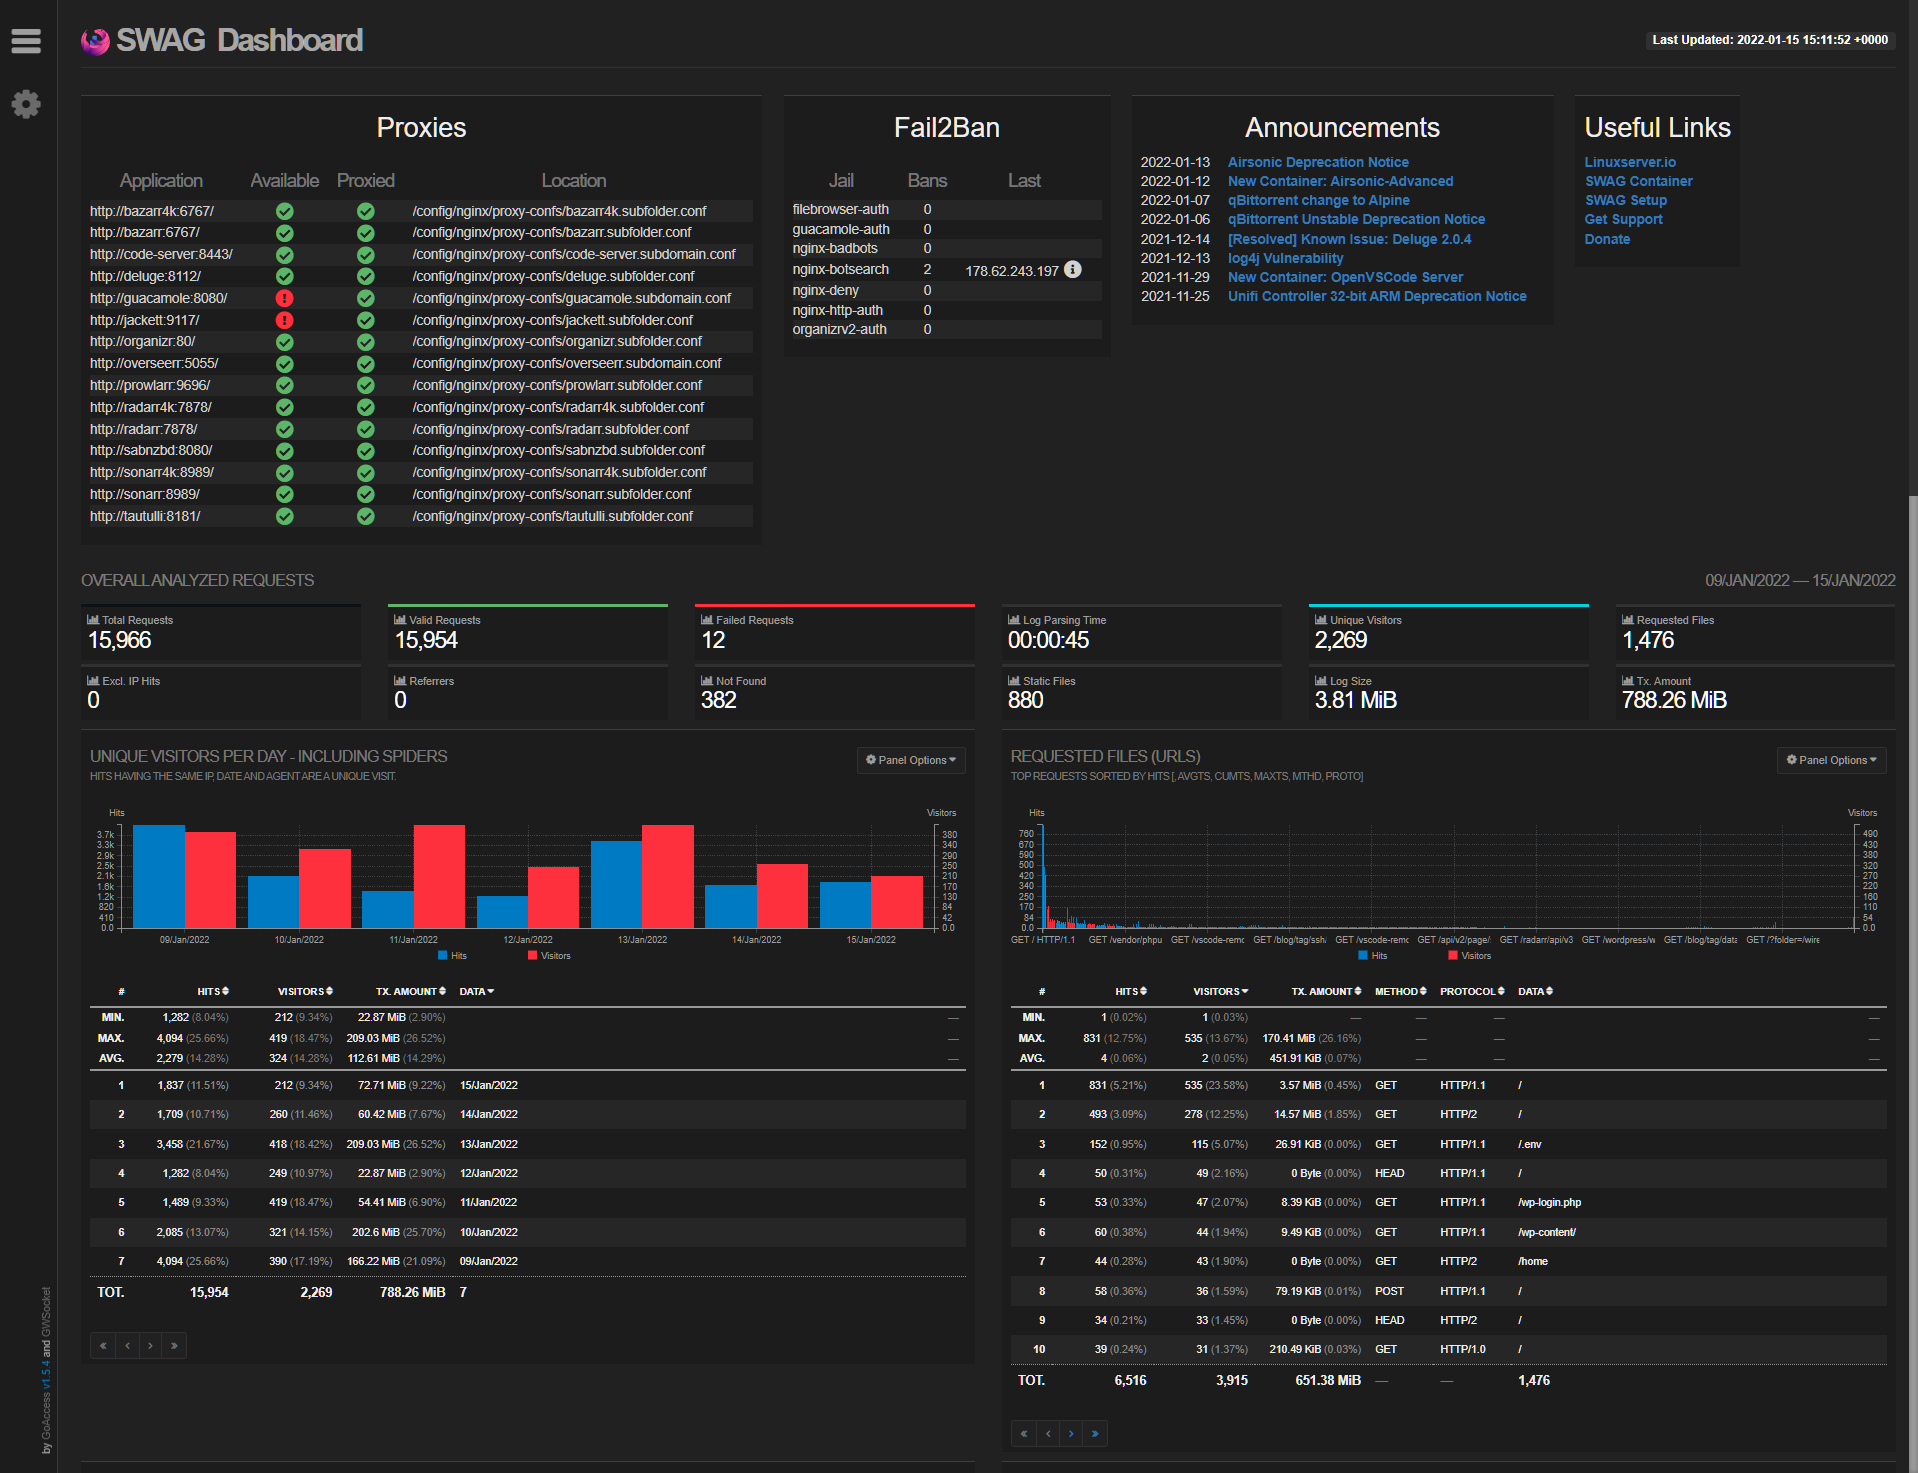
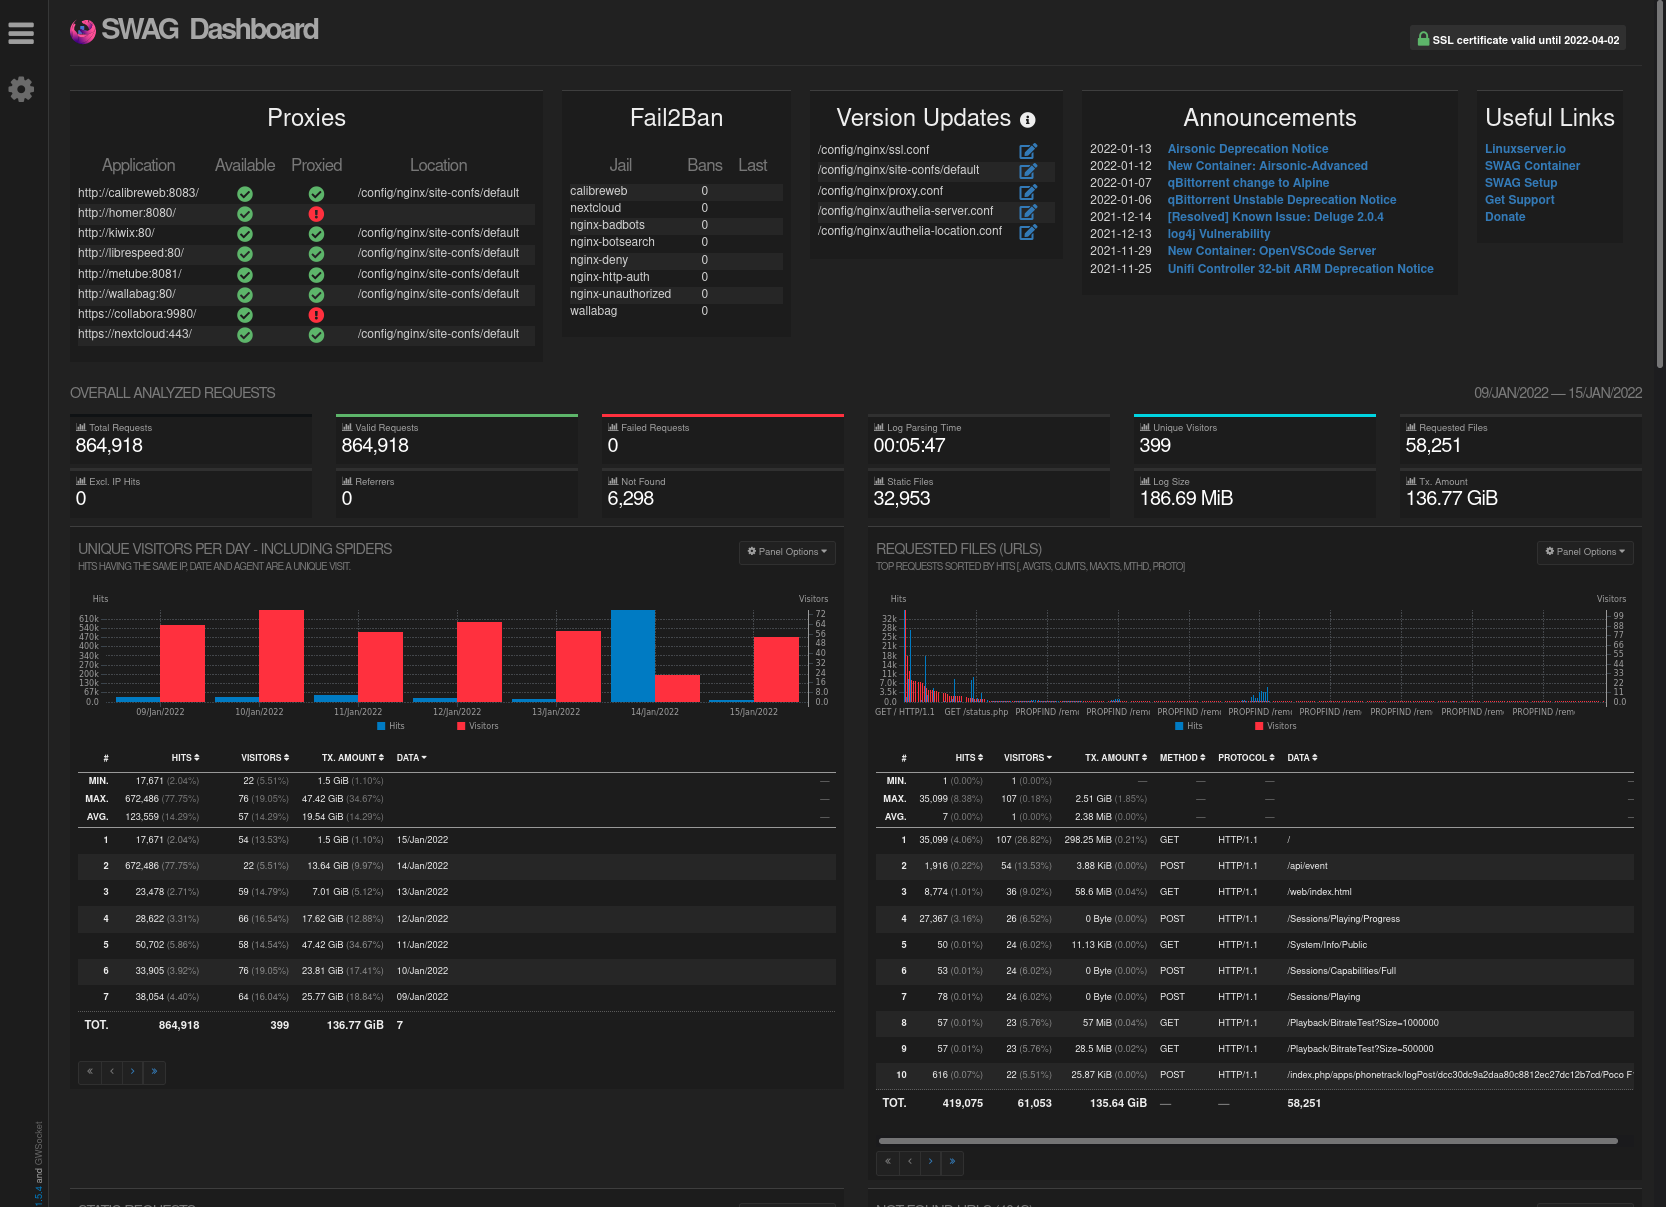
Added SSL certificate status

diff --git a/root/dashboard/www/index.php b/root/dashboard/www/index.php
@@ -24,17 +24,21 @@
                 .far, .fas {
                 font-family: "Font Awesome 5 Free" !important;
                 }
-                .fa-exclamation-circle,.fa-check-circle, .fa-info-circle, .fa-edit {
+                .fa-exclamation-circle,.fa-check-circle, .fa-info-circle, .fa-edit, .fa-lock {
                     font-size:20px;
                     padding: 2px;
                 }
-                .fa-check-circle {
+                .fa-check-circle, .fa-lock {
                     color: #5DB56A;
                 }
                 .fa-exclamation-circle {
                     color: #FF303E;
                 }
                 .fa-info-circle:hover{
+                    color: gray;
+                    cursor: help;
+                }
+                .fa-exclamation-circle:hover{
                     color: gray;
                     cursor: help;
                 }
@@ -53,7 +57,7 @@
             if ($data->status == 1) {
                 $status .= '<i class="fas fa-check-circle"></i>';
             } else {
-                $status .= '<i class="fas fa-exclamation-circle"></i>';
+                $status .= '<i class="fas fa-exclamation-circle" title="The SWAG container can\'t reach '.$result.'"></i>';
             }
             $status .= '</td><td>';
             if (!empty($data->locations)) {
@@ -61,7 +65,12 @@
                 $location = implode(",", $locations);
                 $status .= '<i class="fas fa-check-circle"></i></td><td class="left-text"><span class="status-text">'.$location.'</span></td>';
             } else {
-                $status .= '<i class="fas fa-exclamation-circle"></i></td><td></td>';
+                $error = 'Unable to locate the proxy config for '.$result.', it must use the following structure:'.PHP_EOL;
+                $error .= '&#09;set $upstream_app <container/address>;'.PHP_EOL;
+                $error .= '&#09;set $upstream_port <port>;'.PHP_EOL;
+                $error .= '&#09;set $upstream_proto <protocol>;'.PHP_EOL;
+                $error .= '&#09;proxy_pass $upstream_proto://$upstream_app:$upstream_port;'.PHP_EOL;
+                $status .= '<i class="fas fa-exclamation-circle" title="'.$error.'"></i></td><td></td>';
             }
             $status .= '</tr>';
             $index++;
@@ -133,7 +142,7 @@
         $output = shell_exec("/etc/cont-init.d/70-templates");
         foreach(explode(PHP_EOL, $output) as $line) {
             if(substr($line, 0, 1) === "*"){
-                $tooltip .= str_replace("*", "", $line)."&#013;";
+                $tooltip .= str_replace("*", "", $line).PHP_EOL;
             } elseif(substr($line, 0, 1) === "/") {
                 $tr_class = ($counter % 2 == 0) ? 'shaded' : '';
                 $files .= '<tr class="'.$tr_class.'"><td class="left-text"><span class="status-text">'.htmlspecialchars($line).'</span></td>';
@@ -236,8 +245,30 @@
         return $goaccess;
     }
     
+    function GetCertificate() {
+        $certdate = shell_exec("openssl x509 -in /config/keys/letsencrypt/fullchain.pem -noout -enddate | awk -F '=' '{print \$NF}'");
+        $certtime = strtotime($certdate);
+        $certdateshort = date('Y-m-d', $certtime );
+        if (time() < $certtime) {
+            $ssl = '<i class="fab fa-lock"></i> SSL certificate valid until '.$certdateshort;
+        } else {
+            $ssl = '<i class="fab fa-exclamation-circle" title="Check the container logs for more details"></i> SSL certificate expired on '.$certdateshort;
+        }
+        return <<<HTML
+            <div class="pull-right status-div">
+                <h4>
+                    <span class="label label-info" style="display:block">
+                        {$ssl}
+                    </span>
+                </h4>
+            </div>
+        HTML;
+    }
+    
     $goaccess = GetGoaccess();
-    $status = GetHeader() . GetProxies() . GetF2B() . GetTemplates() . GetAnnouncements() . GetLinks() . '<div class="wrap-general">';
+    $status = GetHeader() . GetProxies() . GetF2B() . GetTemplates() . GetAnnouncements() . GetLinks() . "<div class='wrap-general'>";
     $page = str_replace("<div class='wrap-general'>", $status, $goaccess);
+    $ssl = GetCertificate() . "<div class='pull-right hide'>";
+    $page = str_replace("<div class='pull-right'>", $ssl, $page);
     echo $page;
 ?>

diff --git a/README.md b/README.md
@@ -15,11 +15,11 @@ If adding multiple mods, enter them in an array separated by |, such as DOCKER_M
 Navigate to `dashboard.domain.com` from your LAN to view the dashboard.
 
 ## Notes 
-- The application discovery scans all the conf files and looks for the following structure in accordance with the samples, incorrect discovery results can be fixed by using the structure.
+- The application discovery scans the proxy configs and looks for the following structure in accordance with the samples:
   ```yaml
-    set $upstream_app something;
-    set $upstream_port 123;
-    set $upstream_proto http;
+    set $upstream_app <container/address>;
+    set $upstream_port <port>;
+    set $upstream_proto <protocol>;
     proxy_pass $upstream_proto://$upstream_app:$upstream_port;
     ```
 - Either [Swag Maxmind mod](https://github.com/linuxserver/docker-mods/tree/swag-maxmind) or [Swag DBIP mod](https://github.com/linuxserver/docker-mods/tree/swag-dbip) are required to enable the geo location graph.
